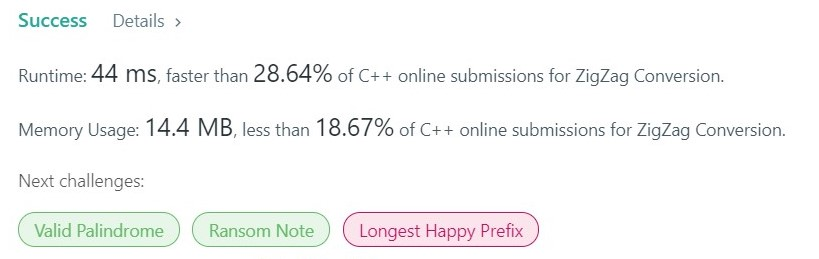
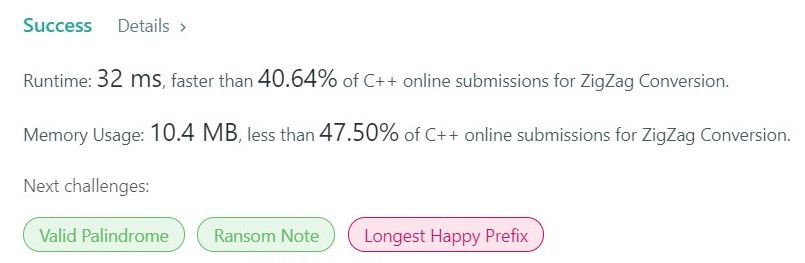
P6 minor change

diff --git a/6_ZigZag_Conversion/Solution.cpp b/6_ZigZag_Conversion/Solution.cpp
@@ -1,6 +1,7 @@
 #include <iostream>
 #include <string>
 #include <vector>
+#include <algorithm>
 #include "Solution.h"
 
 using namespace std;
@@ -15,14 +16,13 @@ Solution::~Solution()
 	
 }
 
+// Straight forward method, time complexity O(n)
 string Solution::convert(string s, int numRows)
 {
 	string result("");
-	vector<string> strRows;
+	vector<string> strRows(numRows, result); // Note: s.size() returns the type "unsigned int"
 	int direction = 1, unit = 2 * numRows - 2, curRow = 0;
 	if (numRows == 1) return s; // Hnadling the spectial case
-	
-	for (int i=0; i<numRows; i++) strRows.push_back(result); // Push back empty string
 	
 	for (int i=0; i<s.size(); i++){
 		
